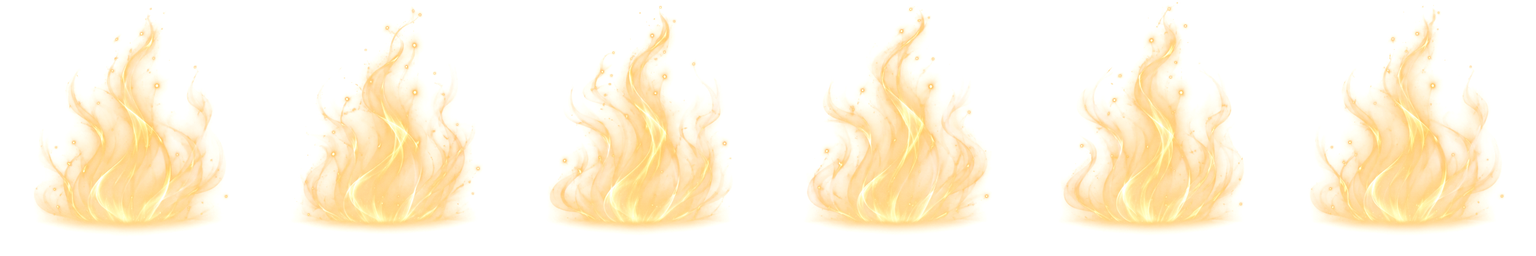
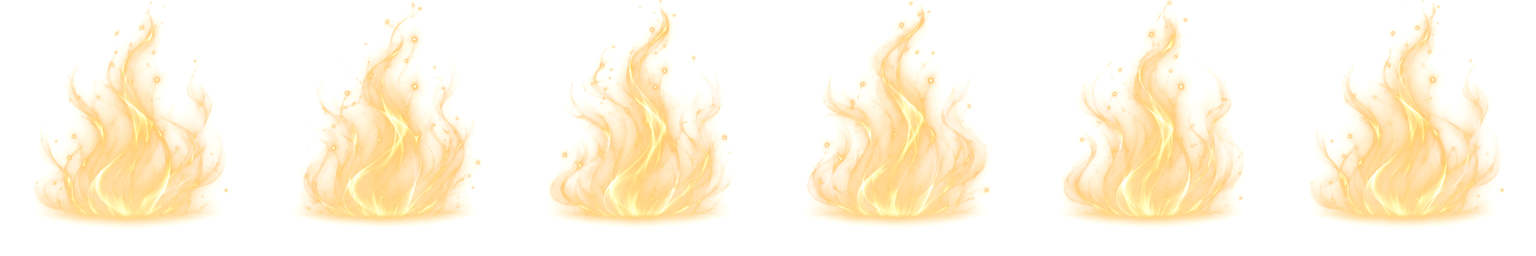
POW pronto: mais cinco visuais (asas, redemoinho, faíscas, raios, coroa)
Pintados pelo Codex; POW_READY_STYLE escolhe (padrão segue o manto). Folhas que nascem
do chão são alinhadas pela luz mais baixa da folha inteira em build-pow-aura.py.

diff --git a/src/game/powReadyAura.ts b/src/game/powReadyAura.ts
@@ -6,13 +6,18 @@ import {freeImage} from './spriteCache';
  * moves them. Three looks, POW_READY_STYLE picks the one in the game:
  *  - aura: a thin oval of soft golden light strands around the fighter;
  *  - mantle: golden spirit wisps rising from behind the body;
- *  - orbs: two small light spirits with comet tails circling the fighter, passing behind and in front of it.
+ *  - orbs: two small light spirits with comet tails circling the fighter, passing behind and in front of it;
+ *  - wings, whirl, sparks, lightning: light wings, ribbons spiralling up, rising sparks, golden arcs (rising from the feet);
+ *  - crown: a small halo of light rays floating over the head.
  * Nothing ever shows under the fighter (matheus): every look is cut at the feet.
  */
-export type PowReadyStyle='aura'|'mantle'|'orbs';
+export type PowReadyStyle='aura'|'orbs'|keyof typeof RISING|'crown';
 export const POW_READY_STYLE:PowReadyStyle='mantle';
 const FRAMES=6;
-const ART={aura:{src:'/assets/combat/pow-ready-aura.png',size:256},mantle:{src:'/assets/combat/pow-ready-mantle.png',size:256},orb:{src:'/assets/combat/pow-ready-orb.png',size:128}} as const;
+/** Looks painted rising from the ground line: drawn size around a 112 px fighter, light, frame time and how far above the feet they start (the wings grow from the back). */
+const RISING={mantle:{draw:170,alpha:.72,frameMs:110,lift:0},wings:{draw:170,alpha:.7,frameMs:140,lift:22},whirl:{draw:190,alpha:.8,frameMs:100,lift:0},sparks:{draw:200,alpha:1,frameMs:120,lift:0},lightning:{draw:150,alpha:.8,frameMs:90,lift:0}} as const;
+const strip=(name:string,size=256)=>({src:`/assets/combat/pow-ready-${name}.png`,size});
+const ART={aura:strip('aura'),orb:strip('orb',128),crown:strip('crown',128),mantle:strip('mantle'),wings:strip('wings'),whirl:strip('whirl'),sparks:strip('sparks'),lightning:strip('lightning')} as const;
 type Art=keyof typeof ART;
 const images=new Map<Art,HTMLImageElement>();
 const motionPreference=typeof window!=='undefined'&&window.matchMedia?window.matchMedia('(prefers-reduced-motion: reduce)'):null;
@@ -43,10 +48,14 @@ export function drawPowReadyAura(c:CanvasRenderingContext2D,x:number,y:number,ti
  if(style==='aura'){
   const {grow,beat,frame}=timing(time,since,120),scale=(.86+.14*grow)*(1+beat*.045),w=180*scale,h=150*scale;
   c.globalAlpha*=grow*(.8+beat*.15);c.drawImage(art,frame*size,0,size,size,x-w/2,y-40-h/2,w,h);
+ }else if(style==='crown'){
+  // Floats over the head with a slow bob.
+  const {t,grow,beat,frame}=timing(time,since,150),s=88*(.85+.15*grow);
+  c.globalAlpha*=grow*(.8+beat*.12);c.drawImage(art,frame*size,0,size,size,x-s/2,y-74-s/2+Math.sin(t/520)*2.5,s,s);
  }else{
-  // The painted base sits 60 px above the bottom of a 512 px cell: it lands just under the body so the wisps rise from it.
-  const {grow,beat,frame}=timing(time,since,110),s=170*(.9+.1*grow)*(1+beat*.03),base=s*(1-60/512);
-  c.globalAlpha*=grow*(.72+beat*.12);c.drawImage(art,frame*size,0,size,size,x-s/2,y+6-base,s,s);
+  // The painted base sits 60 px above the bottom of a 512 px cell: it lands just under the body so the light rises from it.
+  const look=RISING[style],{grow,beat,frame}=timing(time,since,look.frameMs),s=look.draw*(.9+.1*grow)*(1+beat*.03),base=s*(1-60/512);
+  c.globalAlpha*=grow*(look.alpha+beat*.12);c.drawImage(art,frame*size,0,size,size,x-s/2,y+6-look.lift-base,s,s);
  }
  c.restore();
 }

diff --git a/scripts/build-pow-aura.py b/scripts/build-pow-aura.py
@@ -3,7 +3,7 @@
 Sources: public/assets/combat/source/pow-ready-<name>.png, a 3x2 grid of looping frames painted on flat black.
 Light is drawn on black: black becomes transparent by brightness and the colour is un-premultiplied, so the painting
 keeps its glow on any background. Every cell keeps its whole canvas so the loop does not shake; `ring` recentres each
-frame on its bright ring and `orb` puts the white-hot core at the same spot (the painter drifts a little per cell).
+frame on its bright ring, `base` moves the sheet so its lowest light sits on the ground line, and `orb` puts the white-hot core at the same spot (the painter drifts a little per cell).
 Run: py scripts/build-pow-aura.py
 """
 from pathlib import Path
@@ -15,7 +15,10 @@ SRC = ROOT / 'public/assets/combat/source'
 OUT = ROOT / 'public/assets/combat'
 COLS, ROWS = 3, 2
 # name: (strip cell size, how each frame is aligned)
-SHEETS = {'aura': (256, 'ring'), 'mantle': (256, 'none'), 'orb': (128, 'orb')}
+SHEETS = {'aura': (256, 'ring'), 'mantle': (256, 'base'), 'orb': (128, 'orb'), 'crown': (128, 'ring'), 'wings': (256, 'base'),
+          'whirl': (256, 'base'), 'sparks': (256, 'base'), 'lightning': (256, 'base')}
+# `base` looks rise from the ground line: the lowest light of the whole sheet lands BASE px above the cell bottom.
+BASE = 60
 ORB_CORE = (320 / 512, .5)
 
 def unblack(img: Image.Image) -> Image.Image:
@@ -41,11 +44,15 @@ for name, (size, mode) in SHEETS.items():
         continue
     sheet = Image.open(source)
     cw, ch = sheet.width // COLS, sheet.height // ROWS
+    cells = [unblack(sheet.crop(((i % COLS) * cw, (i // COLS) * ch, (i % COLS + 1) * cw, (i // COLS + 1) * ch))) for i in range(COLS * ROWS)]
+    # One shift for the whole sheet, so the loop never jumps.
+    lift = ch - BASE - max(int(np.nonzero((np.asarray(cell)[..., 3] > 40).any(axis=1))[0].max()) for cell in cells) if mode == 'base' else 0
     strip = Image.new('RGBA', (size * COLS * ROWS, size))
     for i in range(COLS * ROWS):
         col, row = i % COLS, i // COLS
-        cell = unblack(sheet.crop((col * cw, row * ch, (col + 1) * cw, (row + 1) * ch)))
+        cell = cells[i]
         cx, cy = centre(cell, mode)
+        cy -= lift
         side = min(cw, ch)
         cell = cell.crop((cx - side // 2, cy - side // 2, cx + side // 2, cy + side // 2)).resize((size, size), Image.LANCZOS)
         strip.paste(cell, (i * size, 0))
